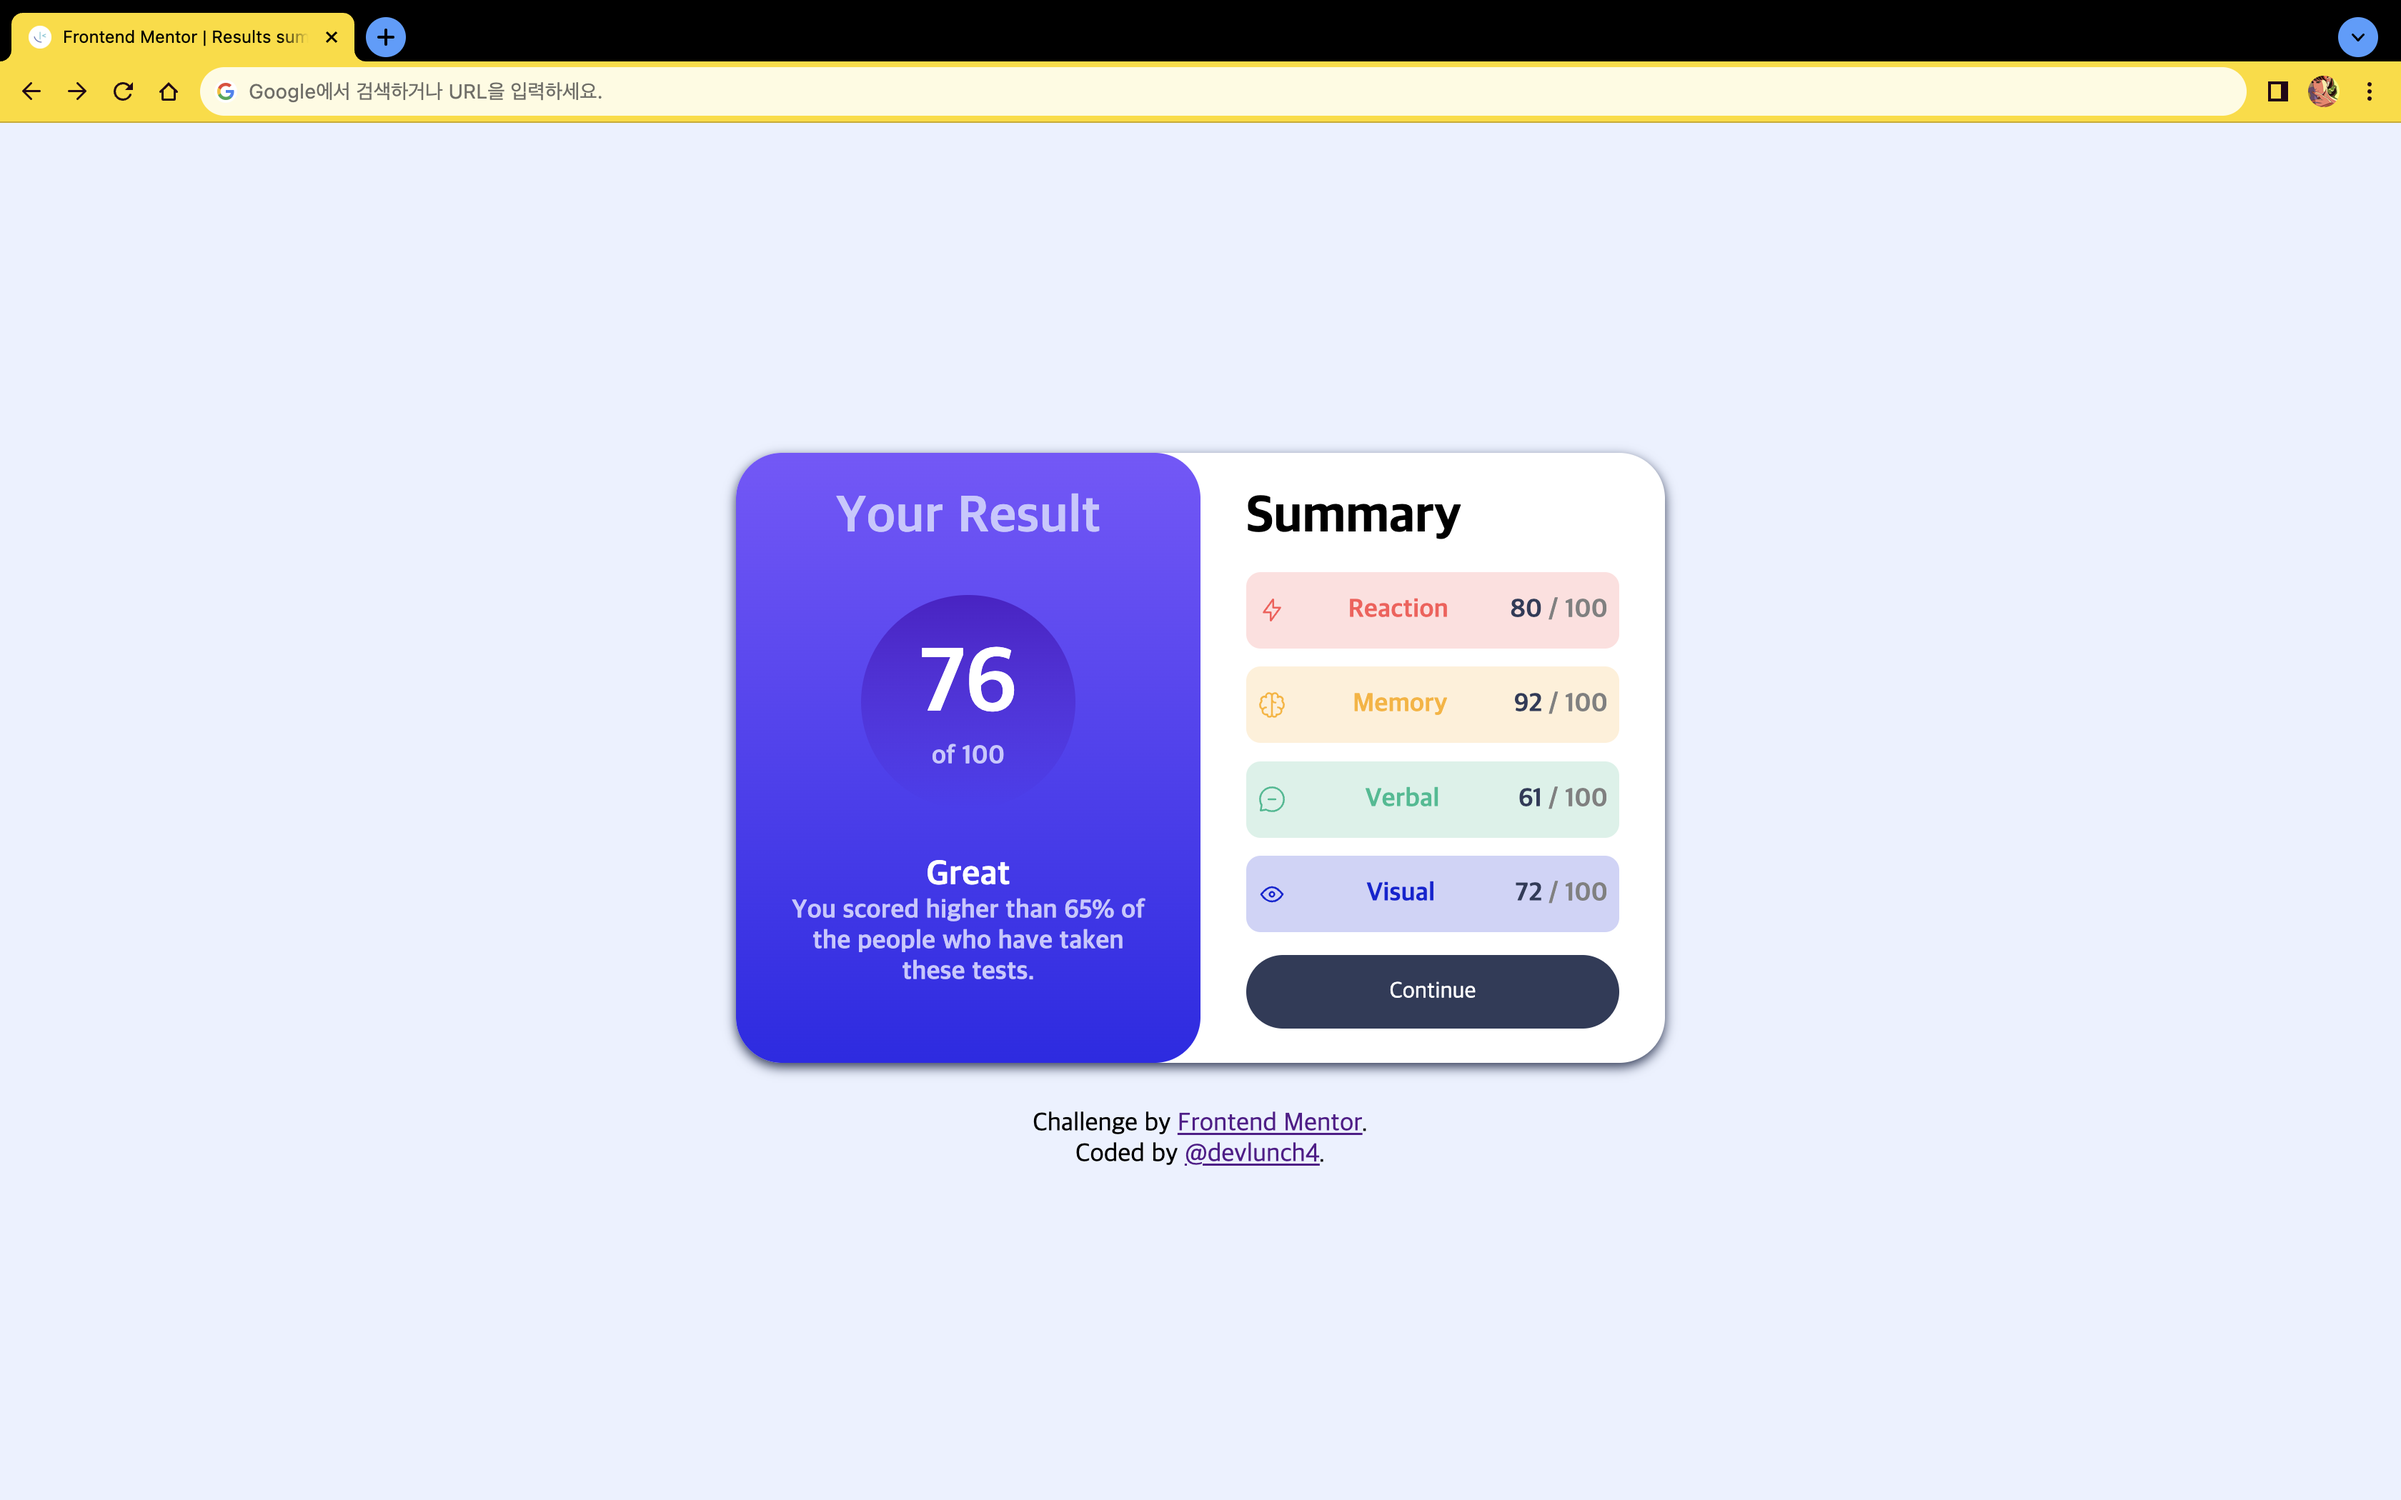
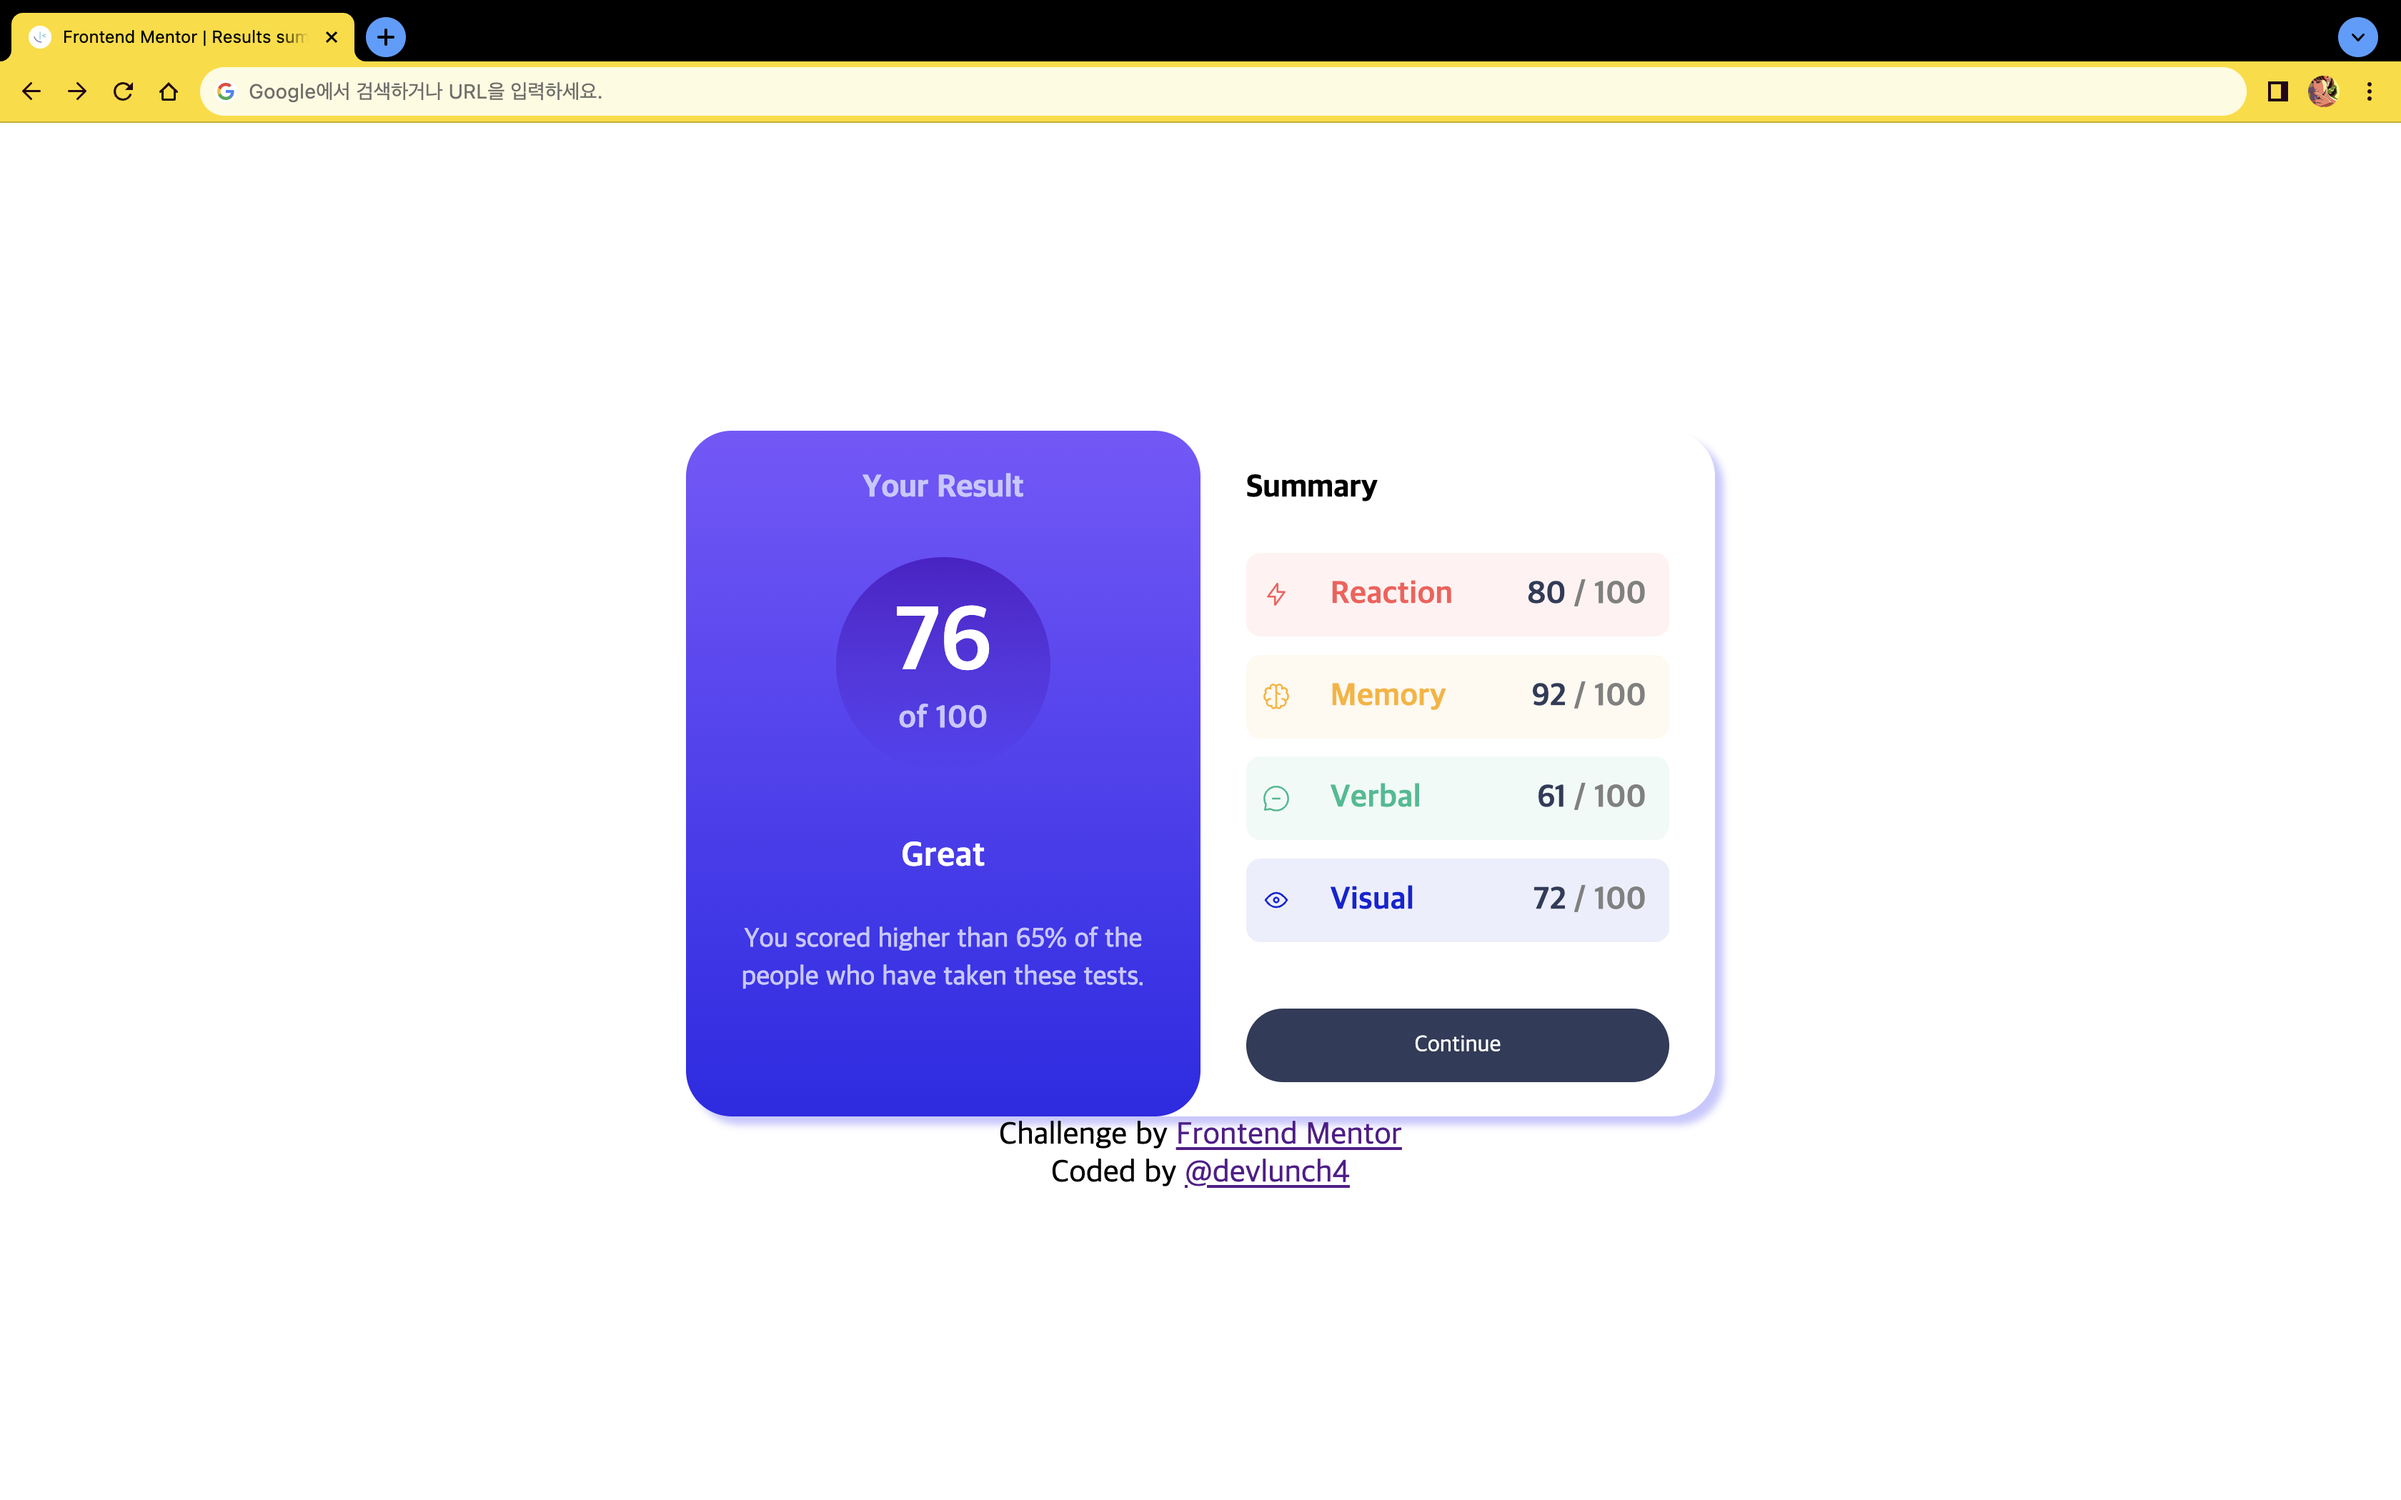
modified files

Changed region(s): [[0.2812, 0.2786, 0.7188, 0.8048]]

diff --git a/index.html b/index.html
@@ -36,7 +36,7 @@
       <div class="card-summary">
         <div class="summary-title">Summary</div>
         <div class="summary-rows">
-          <div class="summary-row" role="grid" aria-grid="1">
+          <div class="summary-row">
             <img src="./assets/images/icon-reaction.svg" alt="icon" />
             <b class="summary-item-title">Reaction</b>
             <p class="summart-score"> <b class="summary-item-get-score">80</b>
@@ -44,7 +44,7 @@
             </p>
           </div>
 
-          <div class="summary-row" role="grid" aria-grid="2">
+          <div class="summary-row">
             <img src="./assets/images/icon-memory.svg" alt="icon" />
             <b class="summary-item-title">Memory</b>
             <p class="summart-score"><b class="summary-item-get-score">92</b>
@@ -52,7 +52,7 @@
             </p>
           </div>
 
-          <div class="summary-row" role="grid" aria-grid="3">
+          <div class="summary-row">
             <img src="./assets/images/icon-verbal.svg" alt="icon" />
             <b class="summary-item-title">Verbal</b>
             <p class="summart-score"><b class="summary-item-get-score">61</b>
@@ -60,7 +60,7 @@
             </p>
           </div>
 
-          <div class="summary-row" role="grid" aria-grid="4">
+          <div class="summary-row">
             <img src="./assets/images/icon-visual.svg" alt="icon" />
             <b class="summary-item-title">Visual</b>
             <p class="summart-score"><b class="summary-item-get-score">72</b>

diff --git a/style.css b/style.css
@@ -69,7 +69,7 @@ body {
 
 .card {
     border-radius: 2rem;
-    width: 640px;
+    width: 720px;
     height: 480px;
     background-color: var(--white);
     box-shadow: var(--light-lavender) 6px 6px 5px;
@@ -94,6 +94,7 @@ body {
 
 .result-title {
     color: var(--light-lavender);
+    font-weight: var(--font-weight-800);
     margin-top: 1%;
     margin-bottom: 1rem;
 }
@@ -136,7 +137,10 @@ body {
 
 .rank-text {
     color: var(--light-lavender);
+
+font-size: 1.2rem;
     width: 200px;
+    font-weight: var(--font-weight-500);
 }
 
 .card-summary {

diff --git a/README.md b/README.md
@@ -39,7 +39,7 @@ Users should be able to:
 
 ### Links
 
-- Solution URL: https://www.frontendmentor.io/solutions/frontend-mentor-results-summary-component-solution-tIwLnckMfu
+- Solution URL: https://www.frontendmentor.io/solutions/frontend-mentor-results-summary-component-solution-ParO-RKT6d
 - Live Site URL: https://devlunch4.github.io/results-summary-component_frontend_mentor/index.html
 - github repo: https://github.com/devlunch4/results-summary-component_frontend_mentor
 
